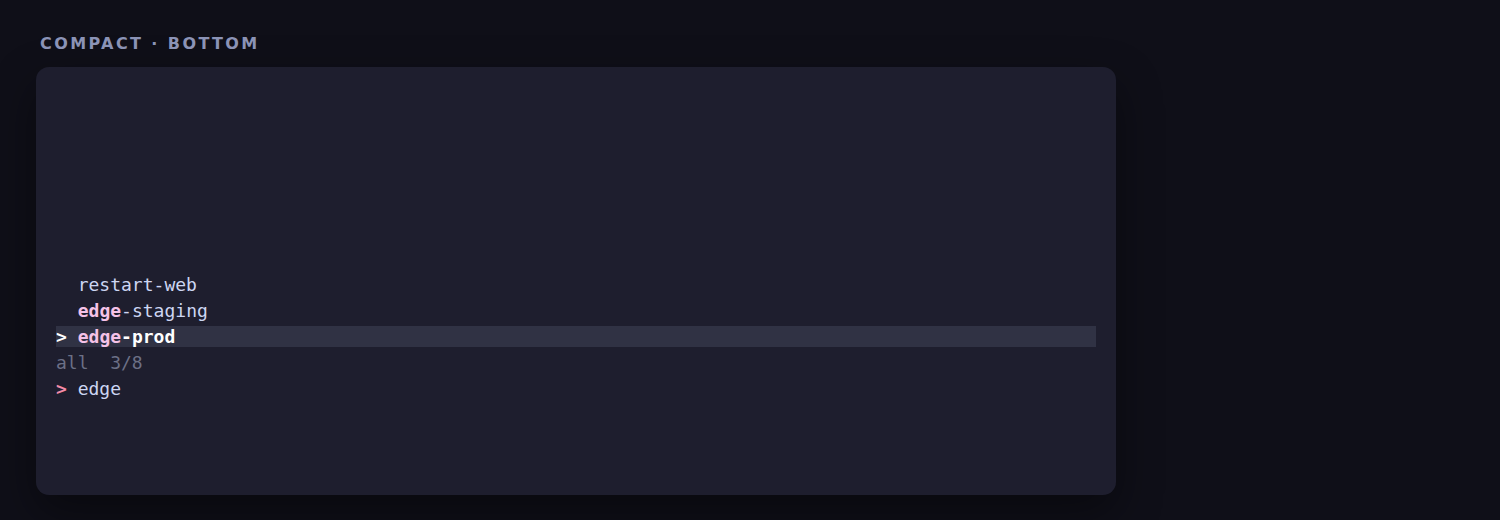
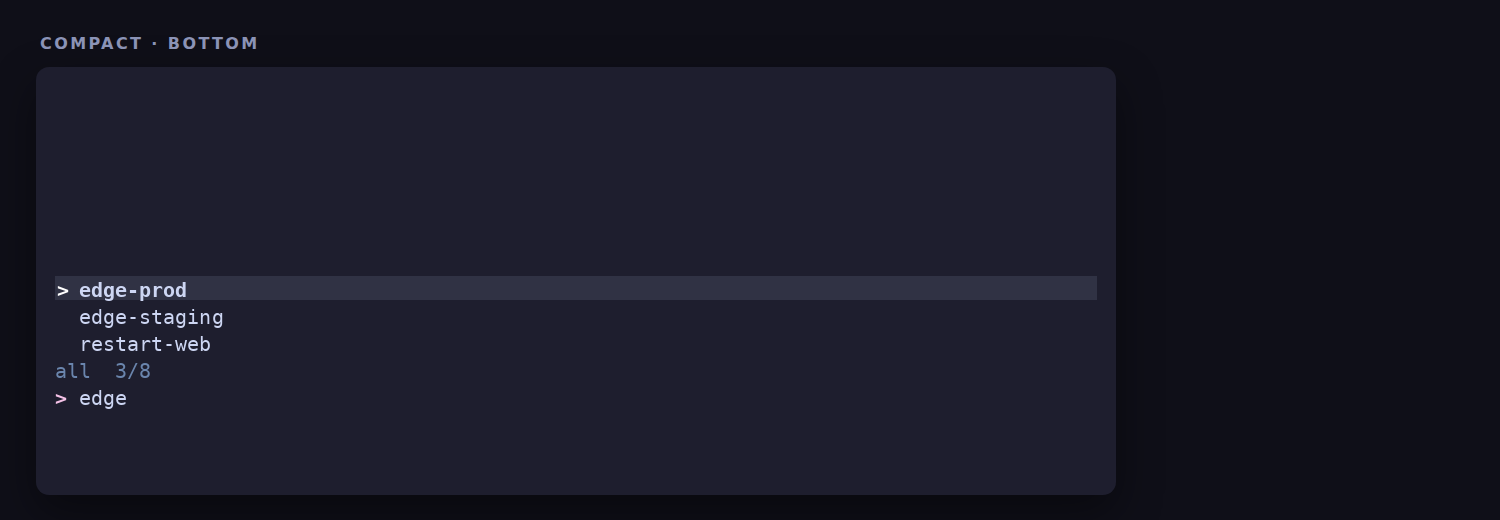
[verified] Make result navigation top-to-bottom

Changed region(s): [[0.0307, 0.5231, 0.1533, 0.8]]

diff --git a/internal/ui/picker_test.go b/internal/ui/picker_test.go
@@ -93,6 +93,38 @@ func TestCompactBottomPlacesQueryAfterResults(t *testing.T) {
 	}
 }
 
+func TestCompactBottomDownMovesSelectionTopToBottom(t *testing.T) {
+	entries := []notes.Entry{
+		{Desc: "alpha", Cmd: "ssh alpha"},
+		{Desc: "bravo", Cmd: "ssh bravo"},
+	}
+	m := NewPicker(entries, "", DefaultTheme(), Options{Layout: "bottom", Height: 6})
+	if m.cursor != 0 {
+		t.Fatalf("initial cursor = %d, want first result", m.cursor)
+	}
+
+	updated, _ := m.Update(tea.KeyMsg{Type: tea.KeyDown})
+	got := updated.(PickerModel)
+	if got.cursor != 1 {
+		t.Fatalf("cursor after Down = %d, want second result", got.cursor)
+	}
+}
+
+func TestCompactBottomRendersResultsTopToBottom(t *testing.T) {
+	entries := []notes.Entry{
+		{Desc: "alpha", Cmd: "ssh alpha"},
+		{Desc: "bravo", Cmd: "ssh bravo"},
+	}
+	m := NewPicker(entries, "", DefaultTheme(), Options{Layout: "bottom", Height: 6})
+	m.width, m.height = 80, 6
+	plain := stripANSI(m.View())
+	alpha := strings.Index(plain, "alpha")
+	bravo := strings.Index(plain, "bravo")
+	if alpha < 0 || bravo < 0 || alpha > bravo {
+		t.Fatalf("compact bottom results must start at the top and continue downward: %q", plain)
+	}
+}
+
 func TestFullScreenKeepsResultsInSearchOrder(t *testing.T) {
 	entries := []notes.Entry{
 		{Desc: "alpha", Cmd: "ssh alpha"},

diff --git a/internal/ui/picker.go b/internal/ui/picker.go
@@ -662,12 +662,6 @@ func (m PickerModel) resultLines(width int, rowStyle, selectedStyle, detailStyle
 	}
 
 	lines := make([]string, 0, len(visible)*maxInt(2, m.resultRowHeight()))
-	if m.isBottomLayout() && !m.options.FullScreen {
-		for i := len(rows) - 1; i >= 0; i-- {
-			lines = append(lines, rows[i].lines...)
-		}
-		return lines
-	}
 	for _, row := range rows {
 		lines = append(lines, row.lines...)
 	}
@@ -883,10 +877,6 @@ func (m *PickerModel) moveCursor(delta int) {
 		return
 	}
 	target := m.cursor + delta
-	// Bottom layout renders results bottom-up, so keys are inverted there.
-	if m.isBottomLayout() && !m.options.FullScreen {
-		target = m.cursor - delta
-	}
 	if target < 0 || target >= len(m.matches) {
 		return
 	}

diff --git a/README.ru.md b/README.ru.md
@@ -81,7 +81,7 @@ f config layout top     # compact сверху
 Клавиши:
 
 - ввод — фильтр;
-- `↑` / `↓`, `Ctrl+K` / `Ctrl+J` — выбор;
+- `↑` / `↓`, `Ctrl+K` / `Ctrl+J` — выбор по видимому списку сверху вниз во всех layout;
 - `Enter` — запустить выбранный SSH;
 - `Ctrl+Y` / `Alt+Enter` — вывести команду без запуска;
 - `Ctrl+E` / `Alt+E` — редактировать SSH config block;

diff --git a/README.md b/README.md
@@ -74,7 +74,7 @@ f config layout top     # compact at top
 Keys:
 
 - type to filter;
-- `↑` / `↓`, `Ctrl+K` / `Ctrl+J` to move;
+- `↑` / `↓`, `Ctrl+K` / `Ctrl+J` to move through results in visual top-to-bottom order in every layout;
 - `Enter` to run the selected SSH command;
 - `Ctrl+Y` / `Alt+Enter` to print without running;
 - `Ctrl+E` / `Alt+E` to edit the selected SSH config block;
